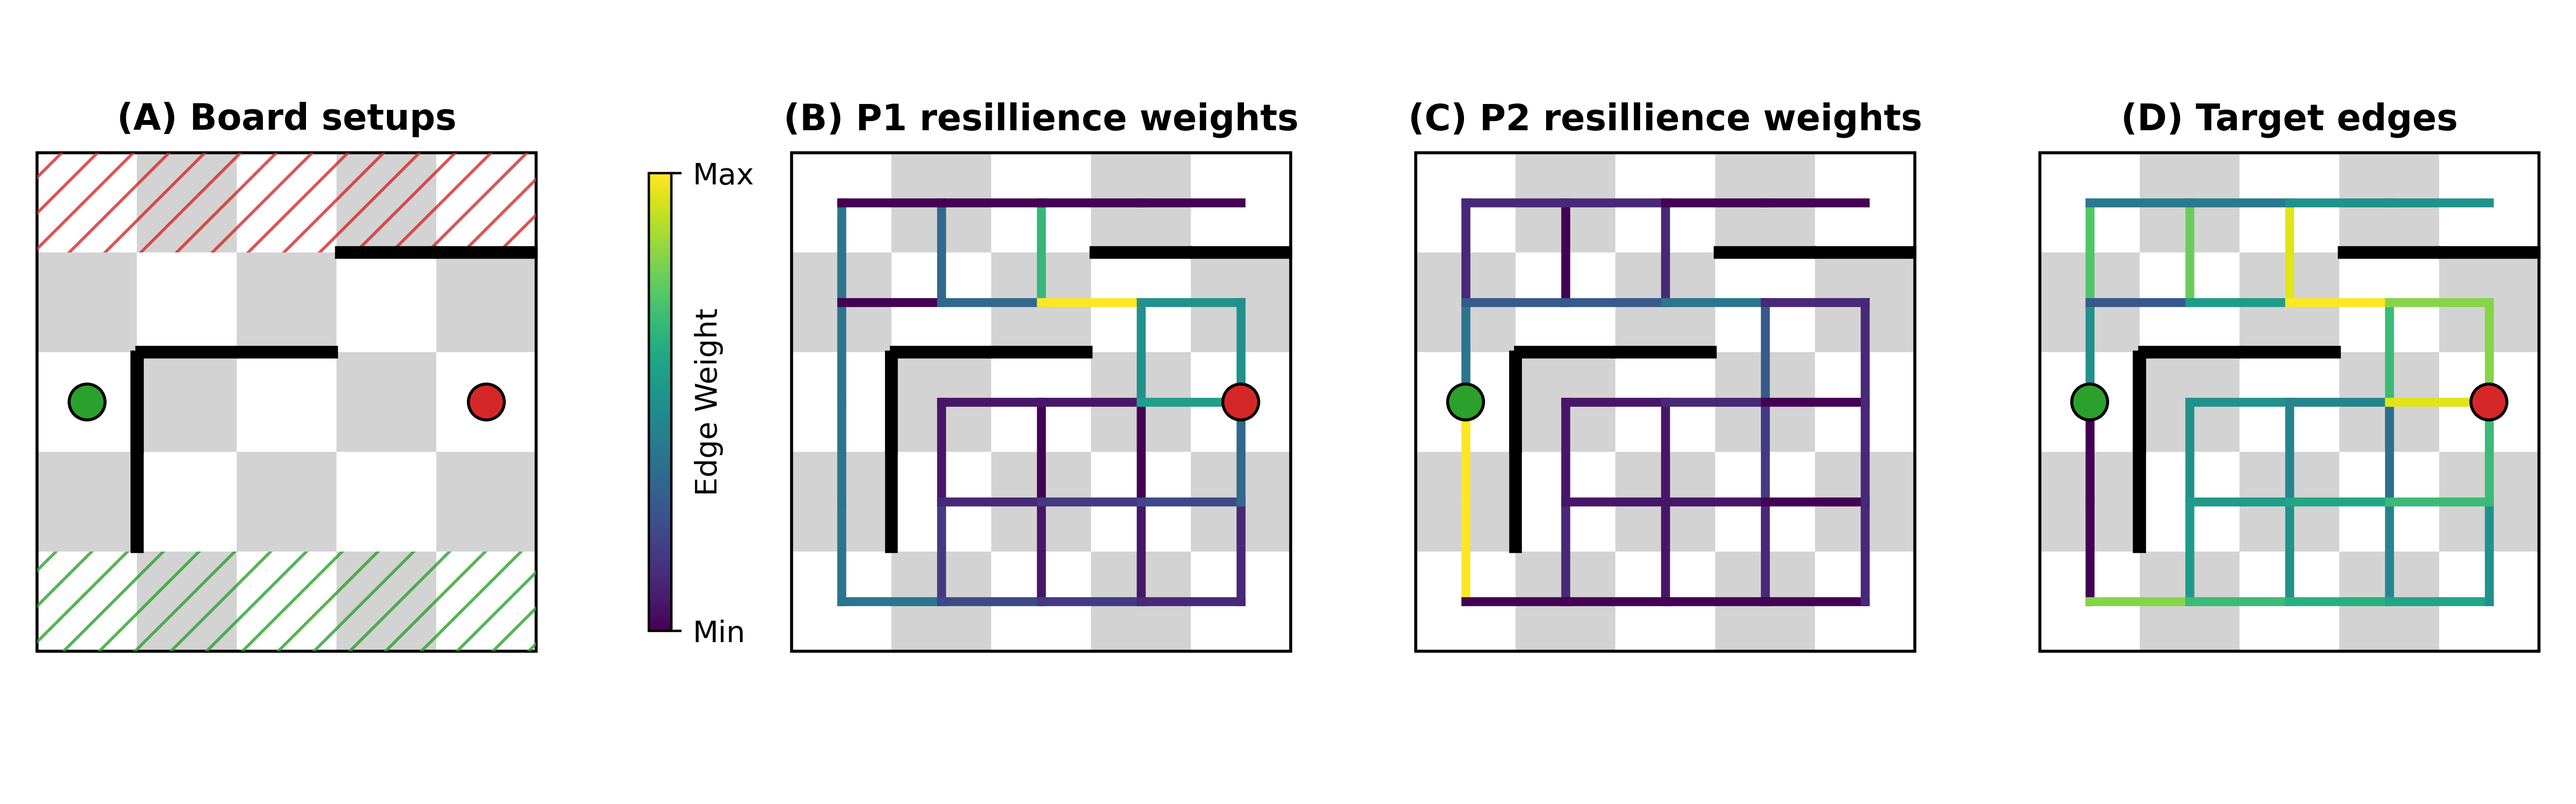
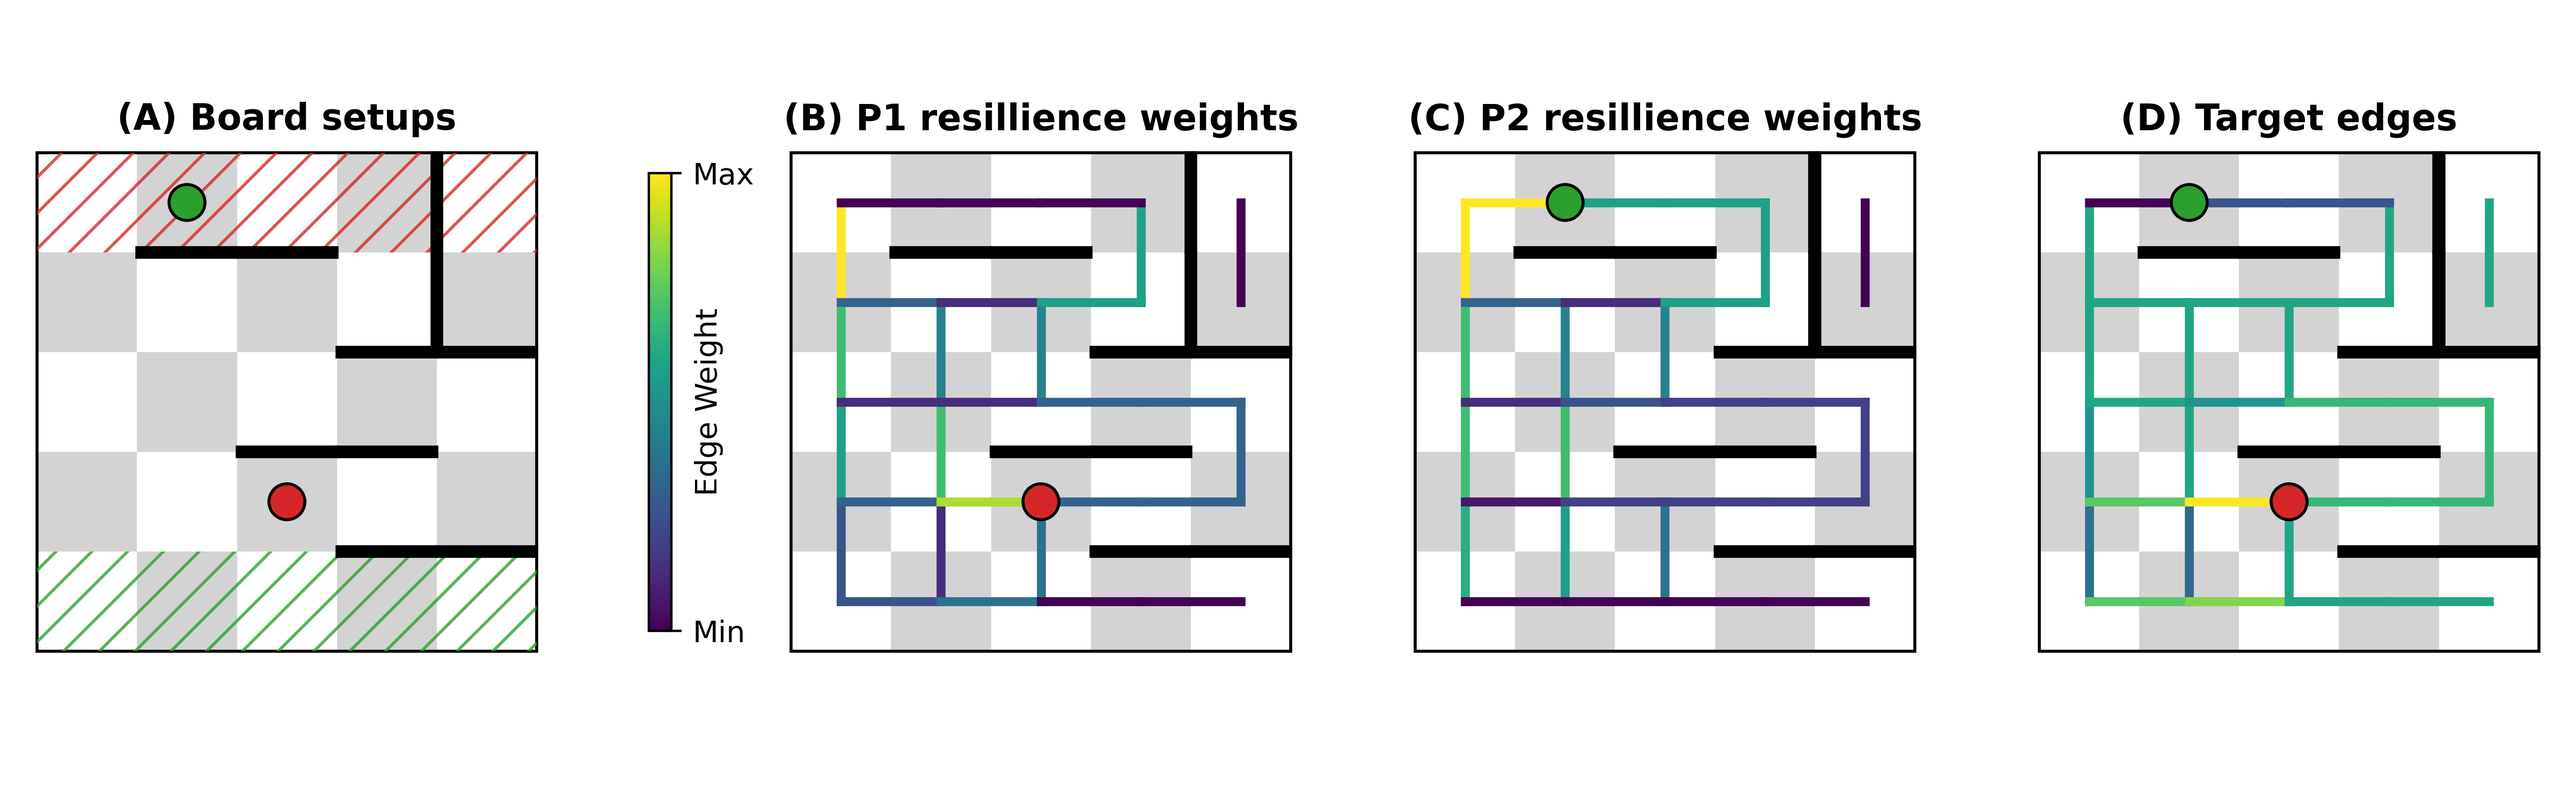
Fix figures

diff --git a/report/report.tex b/report/report.tex
@@ -27,7 +27,7 @@
 % \usepackage[superscript,sort&compress]{natbib}
 
 % Title
-\title{\bfseries Using Monte Carlo Tree Search and Neural Networks in an AI Agent to Play Quoridor}
+\title{\bfseries Using Monte Carlo Tree Search and Random Forest Decision Trees in an AI Agent to Play Quoridor}
 \author{
     Iram Liu, Jacob Groner, Mason Raffo
 }
@@ -112,14 +112,12 @@ After the evaluation is determined, it is recursively backpropagated to every pa
 If a game tree can be fully expanded, one can use trivial algorithms to determine which player can force a win. (The Minimax decision rule is one example.\textbf{CITATION HERE}) When the game tree cannot be fully expanded, it is necessary to create a heuristic that can determine the value of a position. The accuracy of the heuristic function is directly correlated with the playing strength of the AI agent. A perfect heuristic that could always determine which player has forced win would lead to an optimal AI agent. In this project, we compare five distinct heuristic methods:
 
 \begin{enumerate}
-    \item \textbf{Random roll-outs.} Moves are played randomly until one player wins. The evaluation corresponds to the winning player.
+    \item \textbf{Random roll-outs.} Moves are played randomly until one player wins. The evaluation corresponds to the winning player. We quickly abandoned this method as rollouts required too much computation time and were mostly draws.
     \item \textbf{Naive.} Has no knowledge of the game at all. Always gives a neural evaluation unless a player has successfully won the game. Serves as a baseline for comparison.
     \item \textbf{Basic.} Gives a basic scaled value based on the Manhattan distance to the goal. Does not take any pathfinding or advanced logic into account.
     \item \textbf{Convolutional Neural Network.} Uses a convolutional neural network that analyses the board position.
-    \item \textbf{Path Resiliency Neural Network.} Uses an MLP that has advanced knowledge of potential paths to the goal encoded as features.
+    \item \textbf{Path Resiliency Random Forest.} Uses random forest decision tree classifier to categorize positions as won, lost, or drawn based on path resiliency features.
 \end{enumerate}
-
-\subsection{Convolutional Neural Network Design}
 
 \subsection{Shortest Path Resiliency}
 
@@ -147,17 +145,28 @@ This technique shines when there are many paths to the goal for both players, an
 
 Due to the discrete and uniform nature of these edge weight modifications, the number of iterations is not relevant beyond a sufficient threshold ($=25$, in our testing). After sufficient iterations, all the resulting weights are nearly equivalent up to scale.
 
-There are several features we create for our neural network using this process. Each feature is calculated twice: once from each player's perspective.
+There are several features we create for our decision tree using this process. Each feature is calculated twice: once from each player's perspective.
 
 \begin{enumerate}
-    \item \textbf{Scaled resiliency distance.} This scalar encodes the information of Fig.~\ref{fig:resiliency}B. It is the percentage of the total weight that is included in the shortest path from the player to the goal after all of the iterations are complete.
-    \item \textbf{Raw resiliency distance.} This scalar is similar to (1), but it does not depend on the amount of total weight added during the iterative phase. It is calculated as the total weight along the shortest path to the goal divided by the number of iterations.
-    \item \textbf{Scaled targetability.} This scalar encodes the information of Fig.~\ref{fig:resiliency}D in the same method as (1).
-    \item \textbf{Raw targetability.} This scalar encodes the information of Fig.~\ref{fig:resiliency}D in the same method as (2).
-    \item \textbf{Maximum liability.} This scalar encodes the intensity of the highest weight of Fig.~\ref{fig:resiliency}D.
+    \item \textbf{Original shortest path distance.} The distance between the pawn and the goal, without considering future fence placements.
+    \item \textbf{Path resiliency.} The distance of the shortest path after completing the path finding and edge weight modification iterations. If there are many paths from the current location to the goal, the added edge weight will be distributed across these paths, and this feature will be lower. If there are few paths for a player to take, they will accumulate a large amount of weight. This feature encodes the calculation of Fig.~\ref{fig:resiliency}B/C.
+    \item \textbf{Fence count.} The number of fences that a player is allowed to place.
+    \item \textbf{Path liability.} Encodes the amount to which both players need the same paths to win. Encodes the shortest distance along the liability graph (Fig.~\ref{fig:resiliency}D).
+    \item \textbf{Maximum liability.} Encodes the maximum weight value in the liability graph.
 \end{enumerate}
 
+% \begin{enumerate}
+%     \item \textbf{Scaled resiliency distance.} This scalar encodes the information of Fig.~\ref{fig:resiliency}B. It is the percentage of the total weight that is included in the shortest path from the player to the goal after all of the iterations are complete.
+%     \item \textbf{Raw resiliency distance.} This scalar is similar to (1), but it does not depend on the amount of total weight added during the iterative phase. It is calculated as the total weight along the shortest path to the goal divided by the number of iterations.
+%     \item \textbf{Scaled targetability.} This scalar encodes the information of Fig.~\ref{fig:resiliency}D in the same method as (1).
+%     \item \textbf{Raw targetability.} This scalar encodes the information of Fig.~\ref{fig:resiliency}D in the same method as (2).
+%     \item \textbf{Maximum liability.} This scalar encodes the intensity of the highest weight of Fig.~\ref{fig:resiliency}D.
+% \end{enumerate}
+
 \subsection{Training Data Generation}
+
+To use machine learning method to understand positions based on these path resiliency features, we needed to be able to generate training examples. These training examples would include the path resiliency features and a ``ground truth'' value of the position. As we will discuss later, a sufficient number of iterations allows any MCTS model to perform well (Section~\ref{sec:moreitersisbetter}). To generate training examples, we had the basic model play against itself with a large number of MCTS iterations. After the game was concluded, we created an example out of each position that was seen in the game, and whether that position ultimately led to a victory. Each game was initialized with four random moves to ensure variety in the positions. 
+
 
 \section{Evaluation}
 
@@ -173,6 +182,7 @@ As noted earlier, the strength of an MCTS system is entirely dependent on the st
 The first principle verifies that an MCTS system is working as expected, while the second principle gives us a method of comparison between different systems.
 
 \subsection{Principle 1: Increasing Iterations Improves Performance}
+\label{sec:moreitersisbetter}
 
 To verify that increasing the number of iterations increased the performance of our models, we created a methodology to determine the relative playing strength between two models. A first thought would be to play the model against itself; however such a method would only test the model against positions that it itself selects rather than the full breadth of positions that it could encounter. Instead, we conduct many test games and begin each test game with a seqeuence of randomly selected moves. While this process does ensure the model is forced to play from a variety of unique positions, it presents a certain unfairness. Some positions are clearly lost, and are easily converted to wins by the opponent. We avoid this issue by looking at the ratio of wins to losses and draws. Stronger models will be able to find more subtle paths to victory, and will thus achieve a higher win to loss ratio against weaker models when starting from random positions.
 
@@ -183,34 +193,36 @@ To verify that increasing the number of iterations increased the performance of 
     \label{fig:selfplay}
 \end{figure}
 
-When playing the naive model against itself, our tests indicate that the performance increases as the number of iterations increases as expected (Fig.~\ref{fig:selfplay}A). Interestingly, when the number of iterations for both players are equal at 1000, player 2 wins. This potentially indicates that the game mechanics or the use of random moves biases towards player 2. Nevertheless, principle 1 is supported in this test.
 
-When playing the basic model against the naive model, there is a similar upward trend (Fig.~\ref{fig:selfplay}B). The model also reaches a similiar peak performance, the point at which increasing the iterations does not provide performance enhancements. Although, the basic model reaches this peak performance at a lower number of iterations, supporting the theory that its evaluation function is more accurate. 
 
 \subsection{Principle 2: Better Evaluations Functions Require Fewer Iterations}
 
 MCTS systems compensate for imperfect evaluation functions by iteratively exploring and exploiting the most promising potential moves. As the number of iterations increases, the model's understanding of the position becomes more complete, and its analysis becomes more accurate. We compare several different evaluation functions to understand how quickly our models are able to understand more complex positions.
 
-We have the models evaluate a prearranged position (Fig.~\ref{fig:MCTS}A). This position is designed like a tactics puzzle in chess: there is a clear winner with a bit of subtlety in the execution. First, we verify that our MCTS system is able to solve the puzzle. This puzzle is designed as a forced win for player 1, but there is only one right move. Every other move allows player 2 to force a win. The MCTS system selects the best move by finding the child of the root node with the highest $w / n$ ratio. We examine these ratios after 200 and 5000 iterations. It is clear that the model has found the best move after 200 iterations, and it is even more certain after 5000 iterations (Fig.~\ref{fig:MCTS}B).
 
-We use the naive MCTS system as a baseline to compare other systems against. Its evaluation function provides no information about the board, only returning a nonzero value in terminal positions. When MCTS systems evalute with the naive evaluation function, there is an immediate and rapid drop (Fig.~\ref{fig:MCTS}D). This drop is an expected result when analyzing a position with a hidden tactic. With only a shallow search, it seems that the position is lost. It is only after the model has found the winning move and sufficiently explored to verify the expected outcome that the evaluation the increases. As expected, the calculated strength of the position continues to increase until the end of the experiment.
+\subsubsection{Simple Tactics}
+We have the models evaluate a prearranged position (Fig.~\ref{fig:MCTS}A). This position is designed like a tactics puzzle in chess: there is a clear winner with a bit of subtlety in the execution. First, we verify that our MCTS system is able to solve the puzzle. This puzzle is a forced win for player 1, but there is only one right move. Every other move allows player 2 to force a win. The MCTS system selects the best move by finding the child of the root node with the highest $w / n$ ratio. We examine these ratios after 200 and 5000 iterations. We also examine the value of $w / n$ for the root node after every MCTS iteration. This value is the strength of the position. A positive strength value means that the model has predicted the player to move will win the game. A negative strength value means the opponent is predicted win the game. It is clear that the naive model has found the best move after 200 iterations, and it is even more certain after 5000 iterations (Fig.~\ref{fig:MCTS}B).
+
+We use the naive MCTS system as a baseline to compare other systems against. Its evaluation function provides no information about the board, always returning zero in non-terminal positions. When MCTS systems evalute with the naive evaluation function, there is an immediate and rapid drop in the calculated strength of the position (Fig.~\ref{fig:MCTS}D). This drop is an expected result when analyzing a position with a hidden tactic. With only a shallow search, it seems that the position is lost. It is only after the model has found the winning move and sufficiently explored to verify it the position strength evaluation the increases. As expected, the calculated strength of the position continues to increase until the end of the experiment. (The true strength of the position is 1.)
 
 
 
 \begin{figure}[H]
     \centering
     \includegraphics[width=\linewidth]{MCTS_eval.png}
-    \caption{\textbf{Solving a Simple Tactic.} \textbf{(A)} A sample benchmark position that we selected to examine the model's strength as the iteration count increases. Player 1 (red) is to move. If they move directly toward the goal, they will lose and player 2 (green) will reach their goal first. However, if they block player 2 using a wall, they will win. For simplicity, each player has one wall remaining to place. This simple strategy puzzle should be solveable by all MCTS systems with enough iterations. \textbf{(B, C)} There are 24 valid moves from this position. Exactly one of them prevents player 2 from winning the game. This winning move is marked with *. This graph illustrates the softmax of $w/n$ for each possible move after 200 and 5000 MCTS iterations of the basic MCTS model. Higher bars indicate moves that the model prefers. \textbf{(D-F)} Various models' evaluations of the position as they perform more MCTS iterations. The correct evaluation is 1, as the position is  a forced win. Dashed lines indicate when the histograms were sampled.}
+    \caption{\textbf{Solving a Simple Tactic.} \textbf{(A)} A sample benchmark position that we selected to examine the model's strength as the iteration count increases. Player 1 (red) is to move. If they move directly toward the goal, they will lose and player 2 (green) will reach their goal first. However, if they block player 2 using a wall, they will win. For simplicity, each player has one wall remaining to place. This simple strategy puzzle should be solveable by all MCTS systems with enough iterations. \textbf{(B, C)} There are 24 valid moves from this position. Exactly one of them prevents player 2 from winning the game. This winning move is marked with *. The height of the bars is the softmax of $w/n$ for each possible move after 200 and 5000 MCTS iterations of the basic MCTS model. Higher bars indicate moves that the model prefers. \textbf{(D-F)} Various models' evaluations of the position as they perform more MCTS iterations. The correct evaluation is 1, as the position is  a forced win. Dashed lines indicate when the histograms were sampled.}
     \label{fig:MCTS}
 \end{figure}
 
-The basic evaluation function provides an iterative improvement over the naive function. Comparing the strength calculated by the basic evaluation function to the strength calculated by the naive evaluation function reveals a similar yet improved pattern (Fig.~\ref{fig:MCTS}E). There is a rapid drop followed by a more gradual improvement as the model gains understanding of the position. However, this model approaces the correct evaluation more quickly, confirming the improved performance of the evaluation function. 
+The basic evaluation function provides an iterative improvement over the naive function. Comparing the strength calculated by the basic evaluation function to the strength calculated by the naive evaluation function reveals a similar yet improved pattern (Fig.~\ref{fig:MCTS}E). There is a rapid drop followed by a more gradual improvement as the model gains an understanding of the position. However, this model approaches the correct evaluation slightly more quickly, confirming the improved performance of the basic evaluation function. 
+
+The random forest evaluation function demonstrates a marked improvement over both the naive and basic functions. 
 
 
 \begin{figure}[H]
     \centering
     \includegraphics[width=\linewidth]{Adv_tactic.png}
-    \caption{\textbf{Advanced Strategy.} \textbf{(A)} This puzzle is player 1 (red) to move. Each player has one fence remaining to place. Player 1 is closer to their goal and moves first, but they are susceptible to a fence blocking their path. If player 2 (green) is able to block player 1 with a fence, player 2 can force a win. Player 1 must employ an unintinitive move to maintain the lead: placing a fence to block their own unopportune paths to the goal. As the rules require that every player have a path to the goal, if a player delilberately blocks their own alternative paths, their opponent will not be allowed to block them with fences. There are four legal fence placements that player 1 employ to accomplish this goal. These placements are denoted as dashed orange lines. These are the only winning moves for player 1. \textbf{(B-F)}~See Figure~\ref{fig:MCTS}.}
+    \caption{\textbf{Advanced Strategy.} \textbf{(A)} This puzzle is player 1 (red) to move. Each player has one fence remaining to place. Player 1 is closer to their goal and moves first, but they are susceptible to a fence blocking their path. If player 2 (green) is able to block player 1 with a fence, player 2 can force a win. Player 1 must employ an unintinitive move to maintain the lead: placing a fence to block their own unopportune paths to the goal. As the rules require that every player have a path to the goal, if a player delilberately blocks their own alternative paths, their opponent will not be allowed to block them with fences. There are four legal fence placements that player 1 could employ to accomplish this goal. These placements are denoted as dashed orange lines. These are the only winning moves for player 1. \textbf{(B-F)}~See Figure~\ref{fig:MCTS}.}
     \label{fig:AdvTactic}
 \end{figure}
 

diff --git a/second_attempt/path_resilience.py b/second_attempt/path_resilience.py
@@ -15,33 +15,45 @@ from copy import deepcopy
 
 board_size = 5
 
-# pawn1_pos = (1, 2)
-# pawn2_pos = (4, 1)
+pawn1_pos = (1, 2)
+pawn2_pos = (4, 1)
 
+fences = [
+    (0, 3, "v"),
+    (0, 4, "v"),
+    (1, 2, "v"),
+    (1, 3, "v"),
+    (2, 3, "v"),
+    (2, 4, "v"),
+    (3, 1, "v"),
+    (3, 3, "h"),
+    (4, 3, "h"),
+    (3, 2, "v"),
+]
+
+# pawn1_pos = (2, 4)
+# pawn2_pos = (2, 0)
 # fences = [
-#     (0, 3, "v"),
-#     (0, 4, "v"),
-#     (1, 2, "v"),
-#     (1, 3, "v"),
-#     (2, 3, "v"),
-#     (2, 4, "v"),
-#     (3, 1, "v"),
-#     (3, 3, "h"),
-#     (4, 3, "h"),
-#     (3, 2, "v"),
+#     (2, 0, "h"),
+#     (1, 0, "h"),
+#     (2, 0, "h"),
+#     (2, 1, "v"),
+#     (2, 2, "v"),
+#     (3, 3, "v"),
+#     (3, 4, "v"),
 # ]
 
-pawn1_pos = (2, 4)
-pawn2_pos = (2, 0)
-fences = [
-    (2, 0, "h"),
-    (1, 0, "h"),
-    (2, 0, "h"),
-    (2, 1, "v"),
-    (2, 2, "v"),
-    (3, 3, "v"),
-    (3, 4, "v"),
-]
+# pawn1_pos = (2, 4)
+# pawn2_pos = (2, 0)
+# fences = [
+#     (2, 0, "h"),
+#     (1, 0, "h"),
+#     (2, 0, "h"),
+#     (2, 1, "v"),
+#     (2, 2, "v"),
+#     (3, 3, "v"),
+#     (3, 4, "v"),
+# ]
 
 # Step 1: Build graph with weights
 graph = defaultdict(list)
@@ -306,3 +318,4 @@ render(ax11, "(D) Target edges", final_graph, (1, 2))
 
 plt.tight_layout()
 plt.savefig("../report/path_figure.png", dpi=400)
+# plt.show()

diff --git a/second_attempt/MCTS_graphs.py b/second_attempt/MCTS_graphs.py
@@ -15,20 +15,32 @@ from copy import deepcopy
 
 board_size = 5
 
-pawn1_pos = (1, 2)
-pawn2_pos = (4, 1)
-
+pawn1_pos = (2, 4)
+pawn2_pos = (2, 0)
 fences = [
-    (0, 3, "v"),
-    (0, 4, "v"),
-    (1, 2, "v"),
-    (1, 3, "v"),
-    (2, 3, "v"),
-    (2, 4, "v"),
-    (3, 1, "v"),
-    (3, 3, "h"),
-    (3, 2, "v"),
+    (2, 0, "h"),
+    (1, 0, "h"),
+    (2, 0, "h"),
+    (2, 1, "v"),
+    (2, 2, "v"),
+    (3, 3, "v"),
+    (3, 4, "v"),
 ]
+
+# pawn1_pos = (1, 2)
+# pawn2_pos = (4, 1)
+
+# fences = [
+#     (0, 3, "v"),
+#     (0, 4, "v"),
+#     (1, 2, "v"),
+#     (1, 3, "v"),
+#     (2, 3, "v"),
+#     (2, 4, "v"),
+#     (3, 1, "v"),
+#     (3, 3, "h"),
+#     (3, 2, "v"),
+# ]
 
 # Step 1: Build graph with weights
 graph = defaultdict(list)
@@ -301,17 +313,7 @@ for start in graph:
 # Step 3: Draw board
 fig, axs = plt.subplots(2, 3, figsize=(12, 3.75 * 2))
 
-pawn1_pos = (2, 4)
-pawn2_pos = (2, 0)
-fences = [
-    (2, 0, "h"),
-    (1, 0, "h"),
-    (2, 0, "h"),
-    (2, 1, "v"),
-    (2, 2, "v"),
-    (3, 3, "v"),
-    (3, 4, "v"),
-]
+
 
 # PUT DATA ABOUT DISTRIBUTION HERE
 
@@ -424,5 +426,5 @@ if __name__ == "__main__":
 
     plt.tight_layout()
 
-    # plt.show()
-    plt.savefig("../report/MCTS_eval.png", dpi=400)
+    plt.show()
+    # plt.savefig("../report/MCTS_eval.png", dpi=400)
